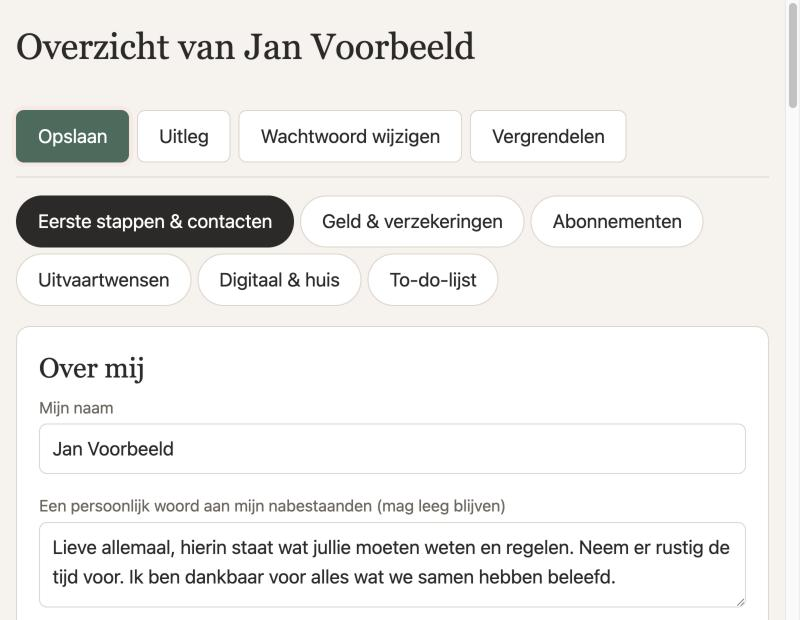
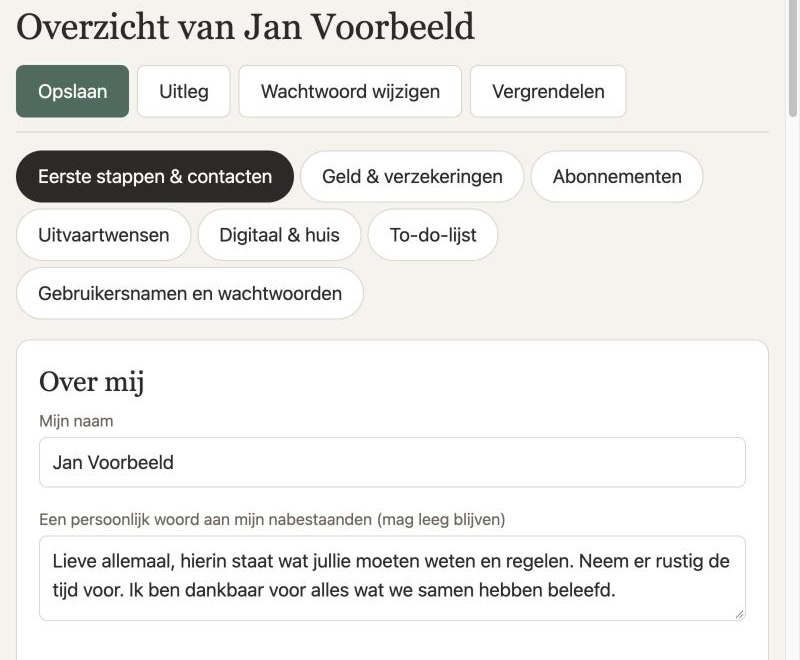
MooiGemaakt: nieuwe opbouw pagina handige hulp voor nabestaanden
Tekst over de volle breedte, blokjes in twee kolommen met het voorbeeld
(nu met tabblad Gebruikersnamen en wachtwoorden) en de uitlegvideo ernaast.

diff --git a/nabestaanden.html b/nabestaanden.html
@@ -20,7 +20,7 @@
   <link rel="preconnect" href="https://fonts.googleapis.com">
   <link rel="preconnect" href="https://fonts.gstatic.com" crossorigin>
   <link href="https://fonts.googleapis.com/css2?family=Figtree:wght@400;500;600;700&family=Roboto+Condensed:wght@700&display=swap" rel="stylesheet">
-  <link rel="stylesheet" href="css/style.css?v=20261122c">
+  <link rel="stylesheet" href="css/style.css?v=20261123">
 </head>
 <body>
   <a class="skip-link" href="#inhoud">Direct naar de inhoud</a>
@@ -53,19 +53,13 @@
   </header>
 
   <main id="inhoud">
-    <section class="page-hero">
-      <div class="container split">
-        <div>
-          <span class="eyebrow">Dé handige hulp voor nabestaanden</span>
-          <h1>Een zorg minder voor wie u liefheeft</h1>
-          <p class="lead">Leg veilig vast wat uw nabestaanden later moeten weten: van contacten en bankzaken tot uw uitvaartwensen.</p>
-          <p>Na een overlijden moeten nabestaanden veel regelen, vaak in korte tijd en midden in hun verdriet. Wie moeten ze bellen? Bij welke bank staat de rekening? Welke abonnementen lopen er nog? Waar ligt het testament? En wat waren uw wensen voor de uitvaart?</p>
-          <p>Met <strong>‘dé handige hulp voor nabestaanden’</strong> legt u dat allemaal vast, op één plek, overzichtelijk en goed beveiligd.</p>
-        </div>
-        <figure class="schermvoorbeeld">
-          <img src="images/nabestaanden-voorbeeld.jpg" alt="Voorbeeld van het overzicht, met tabbladen voor eerste stappen, geld, abonnementen, uitvaartwensen en meer" width="800" height="620">
-          <figcaption>Voorbeeld met verzonnen gegevens</figcaption>
-        </figure>
+    <section class="page-hero hulp-hero">
+      <div class="container">
+        <span class="eyebrow">Dé handige hulp voor nabestaanden</span>
+        <h1>Een zorg minder voor wie u liefheeft</h1>
+        <p class="lead">Leg veilig vast wat uw nabestaanden later moeten weten: van contacten en bankzaken tot uw uitvaartwensen.</p>
+        <p>Na een overlijden moeten nabestaanden veel regelen, vaak in korte tijd en midden in hun verdriet. Wie moeten ze bellen? Bij welke bank staat de rekening? Welke abonnementen lopen er nog? Waar ligt het testament? En wat waren uw wensen voor de uitvaart?</p>
+        <p>Met <strong>‘dé handige hulp voor nabestaanden’</strong> legt u dat allemaal vast, op één plek, overzichtelijk en goed beveiligd.</p>
       </div>
     </section>
 
@@ -75,32 +69,35 @@
           <h2 id="inhoud-titel">Wat legt u vast?</h2>
           <p>Een persoonlijk overzicht dat u op uw eigen computer bijhoudt. U opent het gewoon in uw internetbrowser en vult het stap voor stap in.</p>
         </div>
-        <div class="grid grid--4">
-          <div class="card card--plain"><h3>Eerste stappen</h3><p>Wat uw nabestaanden direct moeten doen, in de juiste volgorde.</p></div>
-          <div class="card card--plain"><h3>Contacten</h3><p>Huisarts, notaris, uitvaartondernemer, familie en vrienden.</p></div>
-          <div class="card card--plain"><h3>Geld en verzekeringen</h3><p>Banken, pensioen, hypotheek, verzekeringen en wat ermee moet gebeuren.</p></div>
-          <div class="card card--plain"><h3>Abonnementen</h3><p>Van energie en internet tot streamingdiensten, met hoe u ze opzegt.</p></div>
-          <div class="card card--plain"><h3>Uitvaartwensen</h3><p>Zodat niemand hoeft te raden wat u had gewild.</p></div>
-          <div class="card card--plain"><h3>Accounts en wachtwoorden</h3><p>E-mail, DigiD, sociale media en wat ermee moet gebeuren.</p></div>
-          <div class="card card--plain"><h3>Belangrijke papieren</h3><p>Waar ligt wat, eventueel met een foto erbij.</p></div>
-          <div class="card card--plain"><h3>Een persoonlijk bericht</h3><p>Een paar woorden aan wie achterblijft.</p></div>
+        <div class="hulp-overzicht">
+          <div class="hulp-kaarten">
+            <div class="card card--plain"><h3>Eerste stappen</h3><p>Wat uw nabestaanden direct moeten doen, in de juiste volgorde.</p></div>
+            <div class="card card--plain"><h3>Contacten</h3><p>Huisarts, notaris, uitvaartondernemer, familie en vrienden.</p></div>
+            <div class="card card--plain"><h3>Uitvaartwensen</h3><p>Zodat niemand hoeft te raden wat u had gewild.</p></div>
+            <div class="card card--plain"><h3>Accounts en wachtwoorden</h3><p>E-mail, DigiD, sociale media en wat ermee moet gebeuren.</p></div>
+            <div class="card card--plain"><h3>Geld en verzekeringen</h3><p>Banken, pensioen, hypotheek, verzekeringen en wat ermee moet gebeuren.</p></div>
+            <div class="card card--plain"><h3>Abonnementen</h3><p>Van energie en internet tot streamingdiensten, met hoe u ze opzegt.</p></div>
+            <div class="card card--plain"><h3>Gebruikersnamen en wachtwoorden</h3><p>Een overzichtelijke tabel met al uw inloggegevens, ook in te lezen uit Excel.</p></div>
+            <div class="card card--plain"><h3>Een persoonlijk bericht</h3><p>Een paar woorden aan wie achterblijft.</p></div>
+          </div>
+          <div class="hulp-rechts">
+            <figure class="schermvoorbeeld">
+              <img src="images/nabestaanden-voorbeeld.jpg?v=2" alt="Voorbeeld van het overzicht van Jan Voorbeeld, met tabbladen voor eerste stappen, geld, abonnementen, uitvaartwensen, gebruikersnamen en wachtwoorden en meer" width="800" height="660">
+              <figcaption>Voorbeeld met verzonnen gegevens</figcaption>
+            </figure>
+            <div class="hulp-video">
+              <h2 id="video-titel">Zo werkt het</h2>
+              <p>In deze korte uitlegvideo ziet u stap voor stap hoe u het overzicht invult en opslaat.</p>
+              <div class="video-frame">
+                <iframe src="https://player.vimeo.com/video/1239799852?dnt=1" title="Uitlegvideo: zo vult u ‘dé handige hulp voor nabestaanden’ in" loading="lazy" allow="fullscreen; picture-in-picture" allowfullscreen></iframe>
+              </div>
+            </div>
+          </div>
         </div>
       </div>
     </section>
 
-    <section class="section" aria-labelledby="video-titel">
-      <div class="container container--narrow">
-        <div class="section-head">
-          <h2 id="video-titel">Zo werkt het</h2>
-          <p>In deze korte uitlegvideo ziet u stap voor stap hoe u het overzicht invult en opslaat.</p>
-        </div>
-        <div class="video-frame">
-          <iframe src="https://player.vimeo.com/video/1239799852?dnt=1" title="Uitlegvideo: zo vult u ‘dé handige hulp voor nabestaanden’ in" loading="lazy" allow="fullscreen; picture-in-picture" allowfullscreen></iframe>
-        </div>
-      </div>
-    </section>
-
-    <section class="section section--white" aria-labelledby="boekje-titel">
+    <section class="section" aria-labelledby="boekje-titel">
       <div class="container">
         <div class="section-head">
           <h2 id="boekje-titel">Blader door de handleiding</h2>

diff --git a/css/style.css b/css/style.css
@@ -849,3 +849,17 @@ html.bladerboek-open { overflow: hidden; }
 .mg-globe::after { content: ""; position: absolute; left: 18%; right: 18%; bottom: -10%; height: 7%; border-radius: 50%;
   background: radial-gradient(ellipse, rgba(13,50,55,.30), transparent 70%); }
 .mg-globe canvas, .mg-globe img { position: relative; z-index: 1; width: 100%; height: 100%; display: block; border-radius: 50%; }
+
+/* Pagina handige hulp: tekst over de volle breedte, blokjes met voorbeeld en video ernaast */
+.hulp-hero .lead, .hulp-hero p { max-width: none; }
+.hulp-overzicht { display: grid; gap: 2.4rem; align-items: start; }
+.hulp-kaarten { display: grid; grid-template-columns: 1fr; gap: 1rem; }
+.hulp-kaarten .card h3 { hyphens: auto; }
+.hulp-rechts { display: flex; flex-direction: column; gap: 2.4rem; }
+.hulp-video h2 { margin-top: 0; }
+@media (min-width: 560px) {
+  .hulp-kaarten { grid-template-columns: 1fr 1fr; }
+}
+@media (min-width: 980px) {
+  .hulp-overzicht { grid-template-columns: minmax(0, 1fr) minmax(0, 1fr); gap: 3rem; }
+}

diff --git a/index.html b/index.html
@@ -20,7 +20,7 @@
   <link rel="preconnect" href="https://fonts.googleapis.com">
   <link rel="preconnect" href="https://fonts.gstatic.com" crossorigin>
   <link href="https://fonts.googleapis.com/css2?family=Figtree:wght@400;500;600;700&family=Roboto+Condensed:wght@700&display=swap" rel="stylesheet">
-  <link rel="stylesheet" href="css/style.css?v=20261122c">
+  <link rel="stylesheet" href="css/style.css?v=20261123">
   <!-- PLACEHOLDER: vul de gegevens in zodra ze bekend zijn -->
   <script type="application/ld+json">
 {

diff --git a/afscheid.html b/afscheid.html
@@ -20,7 +20,7 @@
   <link rel="preconnect" href="https://fonts.googleapis.com">
   <link rel="preconnect" href="https://fonts.gstatic.com" crossorigin>
   <link href="https://fonts.googleapis.com/css2?family=Figtree:wght@400;500;600;700&family=Roboto+Condensed:wght@700&display=swap" rel="stylesheet">
-  <link rel="stylesheet" href="css/style.css?v=20261122c">
+  <link rel="stylesheet" href="css/style.css?v=20261123">
 </head>
 <body>
   <a class="skip-link" href="#inhoud">Direct naar de inhoud</a>

diff --git a/contact.html b/contact.html
@@ -20,7 +20,7 @@
   <link rel="preconnect" href="https://fonts.googleapis.com">
   <link rel="preconnect" href="https://fonts.gstatic.com" crossorigin>
   <link href="https://fonts.googleapis.com/css2?family=Figtree:wght@400;500;600;700&family=Roboto+Condensed:wght@700&display=swap" rel="stylesheet">
-  <link rel="stylesheet" href="css/style.css?v=20261122c">
+  <link rel="stylesheet" href="css/style.css?v=20261123">
 </head>
 <body>
   <a class="skip-link" href="#inhoud">Direct naar de inhoud</a>

diff --git a/diensten.html b/diensten.html
@@ -20,7 +20,7 @@
   <link rel="preconnect" href="https://fonts.googleapis.com">
   <link rel="preconnect" href="https://fonts.gstatic.com" crossorigin>
   <link href="https://fonts.googleapis.com/css2?family=Figtree:wght@400;500;600;700&family=Roboto+Condensed:wght@700&display=swap" rel="stylesheet">
-  <link rel="stylesheet" href="css/style.css?v=20261122c">
+  <link rel="stylesheet" href="css/style.css?v=20261123">
 </head>
 <body>
   <a class="skip-link" href="#inhoud">Direct naar de inhoud</a>

diff --git a/faq.html b/faq.html
@@ -20,7 +20,7 @@
   <link rel="preconnect" href="https://fonts.googleapis.com">
   <link rel="preconnect" href="https://fonts.gstatic.com" crossorigin>
   <link href="https://fonts.googleapis.com/css2?family=Figtree:wght@400;500;600;700&family=Roboto+Condensed:wght@700&display=swap" rel="stylesheet">
-  <link rel="stylesheet" href="css/style.css?v=20261122c">
+  <link rel="stylesheet" href="css/style.css?v=20261123">
 </head>
 <body>
   <a class="skip-link" href="#inhoud">Direct naar de inhoud</a>

diff --git a/over.html b/over.html
@@ -20,7 +20,7 @@
   <link rel="preconnect" href="https://fonts.googleapis.com">
   <link rel="preconnect" href="https://fonts.gstatic.com" crossorigin>
   <link href="https://fonts.googleapis.com/css2?family=Figtree:wght@400;500;600;700&family=Roboto+Condensed:wght@700&display=swap" rel="stylesheet">
-  <link rel="stylesheet" href="css/style.css?v=20261122c">
+  <link rel="stylesheet" href="css/style.css?v=20261123">
 </head>
 <body>
   <a class="skip-link" href="#inhoud">Direct naar de inhoud</a>

diff --git a/portfolio.html b/portfolio.html
@@ -20,7 +20,7 @@
   <link rel="preconnect" href="https://fonts.googleapis.com">
   <link rel="preconnect" href="https://fonts.gstatic.com" crossorigin>
   <link href="https://fonts.googleapis.com/css2?family=Figtree:wght@400;500;600;700&family=Roboto+Condensed:wght@700&display=swap" rel="stylesheet">
-  <link rel="stylesheet" href="css/style.css?v=20261122c">
+  <link rel="stylesheet" href="css/style.css?v=20261123">
 </head>
 <body>
   <a class="skip-link" href="#inhoud">Direct naar de inhoud</a>

diff --git a/privacy.html b/privacy.html
@@ -20,7 +20,7 @@
   <link rel="preconnect" href="https://fonts.googleapis.com">
   <link rel="preconnect" href="https://fonts.gstatic.com" crossorigin>
   <link href="https://fonts.googleapis.com/css2?family=Figtree:wght@400;500;600;700&family=Roboto+Condensed:wght@700&display=swap" rel="stylesheet">
-  <link rel="stylesheet" href="css/style.css?v=20261122c">
+  <link rel="stylesheet" href="css/style.css?v=20261123">
 </head>
 <body>
   <a class="skip-link" href="#inhoud">Direct naar de inhoud</a>

diff --git a/zo-werkt-het.html b/zo-werkt-het.html
@@ -20,7 +20,7 @@
   <link rel="preconnect" href="https://fonts.googleapis.com">
   <link rel="preconnect" href="https://fonts.gstatic.com" crossorigin>
   <link href="https://fonts.googleapis.com/css2?family=Figtree:wght@400;500;600;700&family=Roboto+Condensed:wght@700&display=swap" rel="stylesheet">
-  <link rel="stylesheet" href="css/style.css?v=20261122c">
+  <link rel="stylesheet" href="css/style.css?v=20261123">
 </head>
 <body>
   <a class="skip-link" href="#inhoud">Direct naar de inhoud</a>
